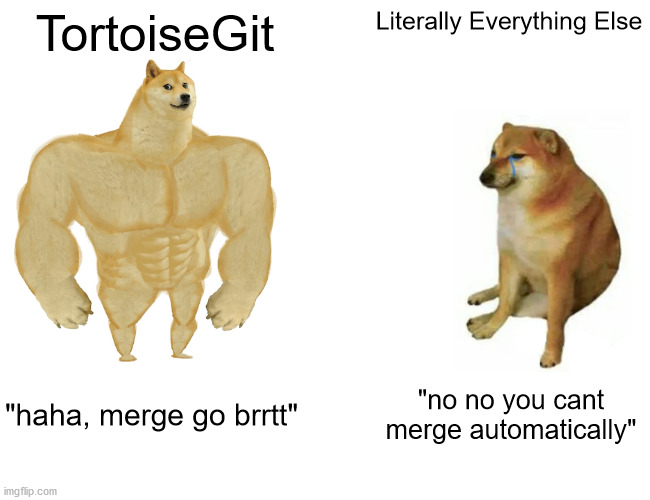
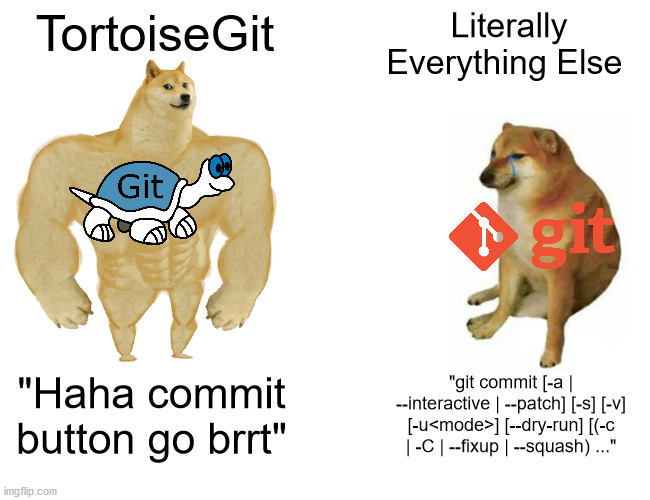
Edited Workflow to display .png accurately, Added more effort/better context to meme

diff --git a/Workflow.md b/Workflow.md
@@ -98,14 +98,14 @@ Note: I am only aware of TortoiseGit working on Windows Machines, install on Mac
 ## WARNING: Do not follow this step unless you have created and are in your new branch, never commit directly to main.
 - Go to where your repository folder is located, and right-click
 
-![Right Click](WorkflowExamples/RightClickRepo.PNG)
+![Right Click](WorkflowExamples/RightClickRepo.png)
 - You will see a section of three options, select the option that reads "Git Commit -> "yourname-newbranch ..."
 #### IF: you see "main" go back to Visual Studio and select a different branch
 
-![Commit Menu](WorkflowExamples/TortoiseGitCommit.PNG) 
+![Commit Menu](WorkflowExamples/TortoiseGitCommit.png) 
 - After clicking on the "Git Commit -> ..." button, a window will pop-up
 
-![Commit Window](WorkflowExamples/CommitMenuTortoise.PNG)
+![Commit Window](WorkflowExamples/CommitMenuTortoise.png)
 - Type in your ATOMIC message that describes the work you did
 - TortoiseGit will automatically check if you made changes to code under the "Modified Files" path
 - New files will be placed under the "Not Versioned" path and normally require you to "check" them in manually
@@ -113,7 +113,7 @@ Note: I am only aware of TortoiseGit working on Windows Machines, install on Mac
 - A fancy pop-up window should show the "Tortoise" running to a folder
 - Once the process is finished you can click the "Push" button
 
-![Push Window](WorkflowExamples/PushWindowTortoise.PNG)
+![Push Window](WorkflowExamples/PushWindowTortoise.png)
 - Click "OK" on the final window (pictured above)
  
 
